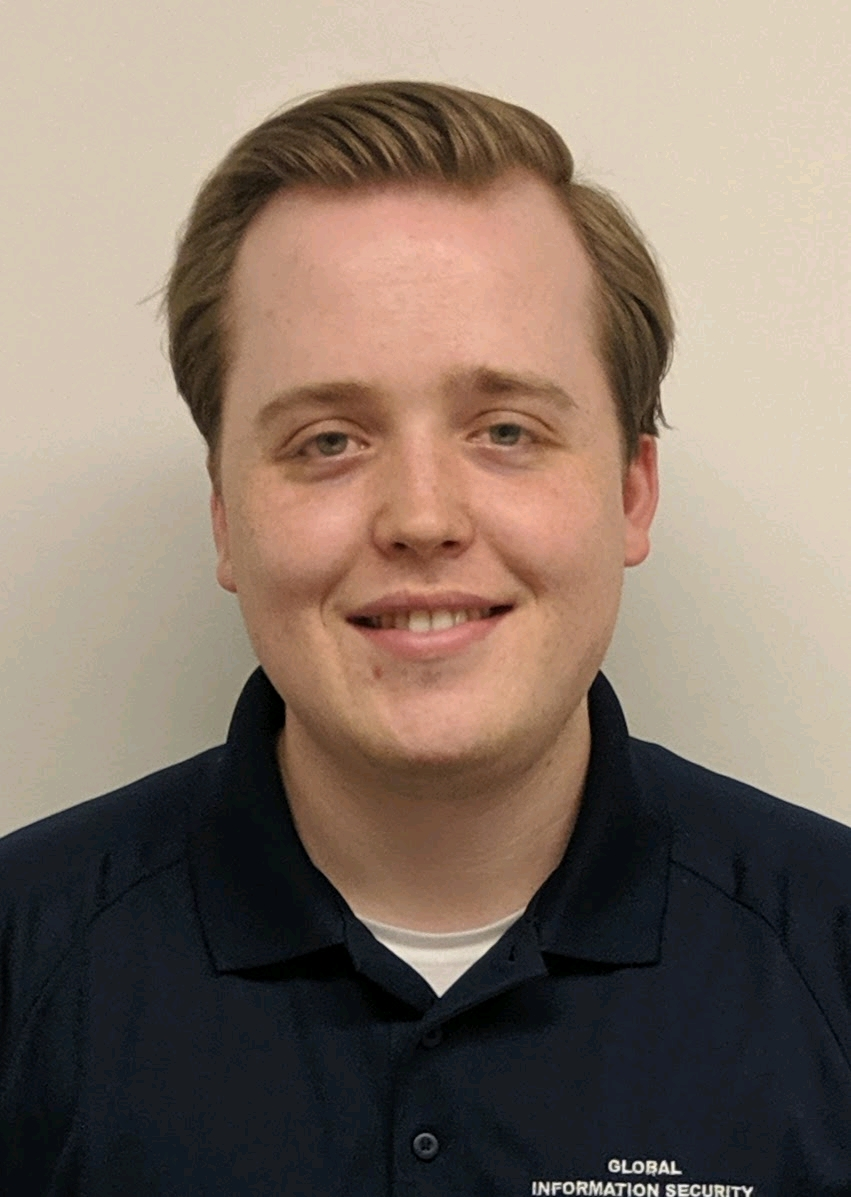
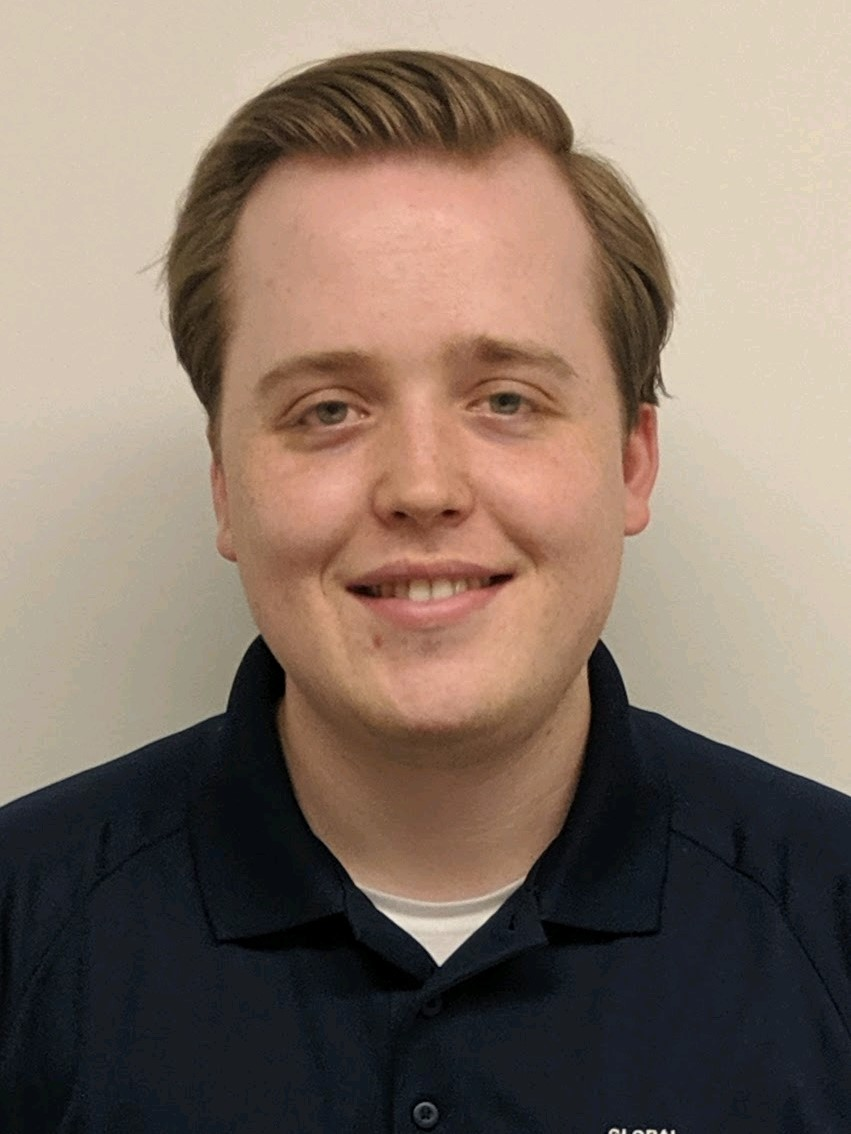
Replace bad pics

diff --git a/team.html b/team.html
@@ -53,10 +53,10 @@
         <div class="row">
             <div class="col-lg-4 col-sm-6 portfolio-item">
                 <div class="card h-10">
-                    <a href="#"><img class="card-img-top" src="images/alex.jpg" alt=""></a>
+                    <img class="card-img-top" src="images/alex.jpg" alt="">
                     <div class="card-body">
                         <h4 class="card-title">
-                            <a href="#">Alex Leak</a>
+                            Alex Leak
                         </h4>
                         <p class="card-text">Senior Computer Science and Mathematics Major at the University of Alabama</p>
                     </div>
@@ -64,10 +64,21 @@
             </div>
             <div class="col-lg-4 col-sm-6 portfolio-item">
                 <div class="card h-10">
-                    <a href="#"><img class="card-img-top" src="images/cole.jpg" alt=""></a>
+                    <img class="card-img-top" src="images/cole.jpg" alt="">
                     <div class="card-body">
                         <h4 class="card-title">
-                            <a href="#">Cole Morgan</a>
+                            Cole Morgan
+                        </h4>
+                        <p class="card-text">Senior Computer Science Major at the University of Alabama from Knoxville, Tennessee.</p>
+                    </div>
+                </div>
+            </div>
+            <div class="col-lg-4 col-sm-6 portfolio-item">
+                <div class="card h-10">
+                    <img class="card-img-top"  src="images/seth.jpg" alt="">
+                    <div class="card-body">
+                        <h4 class="card-title">
+                            Seth Collins
                         </h4>
                         <p class="card-text"></p>
                     </div>
@@ -75,21 +86,10 @@
             </div>
             <div class="col-lg-4 col-sm-6 portfolio-item">
                 <div class="card h-10">
-                    <a href="#"><img class="card-img-top"  src="images/seth.jpg" alt=""></a>
+                    <img class="card-img-top"  src="images/will.jpg" alt="">
                     <div class="card-body">
                         <h4 class="card-title">
-                            <a href="#">Seth Collins</a>
-                        </h4>
-                        <p class="card-text"></p>
-                    </div>
-                </div>
-            </div>
-            <div class="col-lg-4 col-sm-6 portfolio-item">
-                <div class="card h-10">
-                    <a href="#"><img class="card-img-top"  src="images/will.jpg" alt=""></a>
-                    <div class="card-body">
-                        <h4 class="card-title">
-                            <a href="#">Will Drennan</a>
+                            Will Drennan
                         </h4>
                         <p class="card-text">Senior Computer Science Major at the University of Alabama</p>
                     </div>
